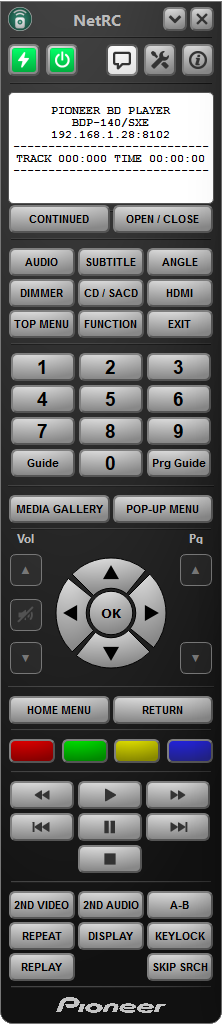
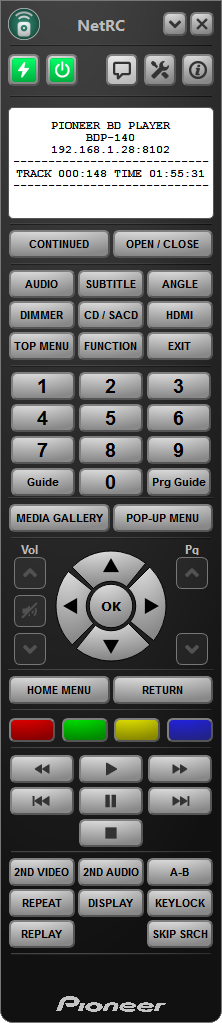
add screen

diff --git a/doc/w11/README.md b/doc/w11/README.md
@@ -20,6 +20,6 @@ Connect and add | Auto search | Remove device protocol
 # Known devices
 [OPPO UDP-203](../OPPO_UDP-203) | [Pioneer BDP-140](../Pioneer_BDP-140) | [Pioneer VSX-923](../Pioneer_VSX923) | [Pioneer VSX-923 Pass Trough](../Pioneer_VSX923) | [LG-QNED86A6A](../LG-QNED86A6A)
 :-------------------------:|:-------------------------:|:-------------------------:|:-------------------------:|:-------------------------:
-![OPPO UDP-203](../../doc/OPPO_UDP-203/online.png) | ![Pioneer BDP-140](../../doc/Pioneer_VSX923/online.png) | ![Pioneer VSX-923](../../doc/Pioneer_VSX923/online.png) | ![Pioneer VSX-923](../../doc/Pioneer_VSX923/pass.png) | ![LG-QNED86A6A](../../doc/LG-QNED86A6A/online.png) 
+![OPPO UDP-203](../../doc/OPPO_UDP-203/online.png) | ![Pioneer BDP-140](../../doc/Pioneer_/online.png) | ![Pioneer VSX-923](../../doc/Pioneer_VSX923/online.png) | ![Pioneer VSX-923](../../doc/Pioneer_VSX923/pass.png) | ![LG-QNED86A6A](../../doc/LG-QNED86A6A/online.png) 
 
 
